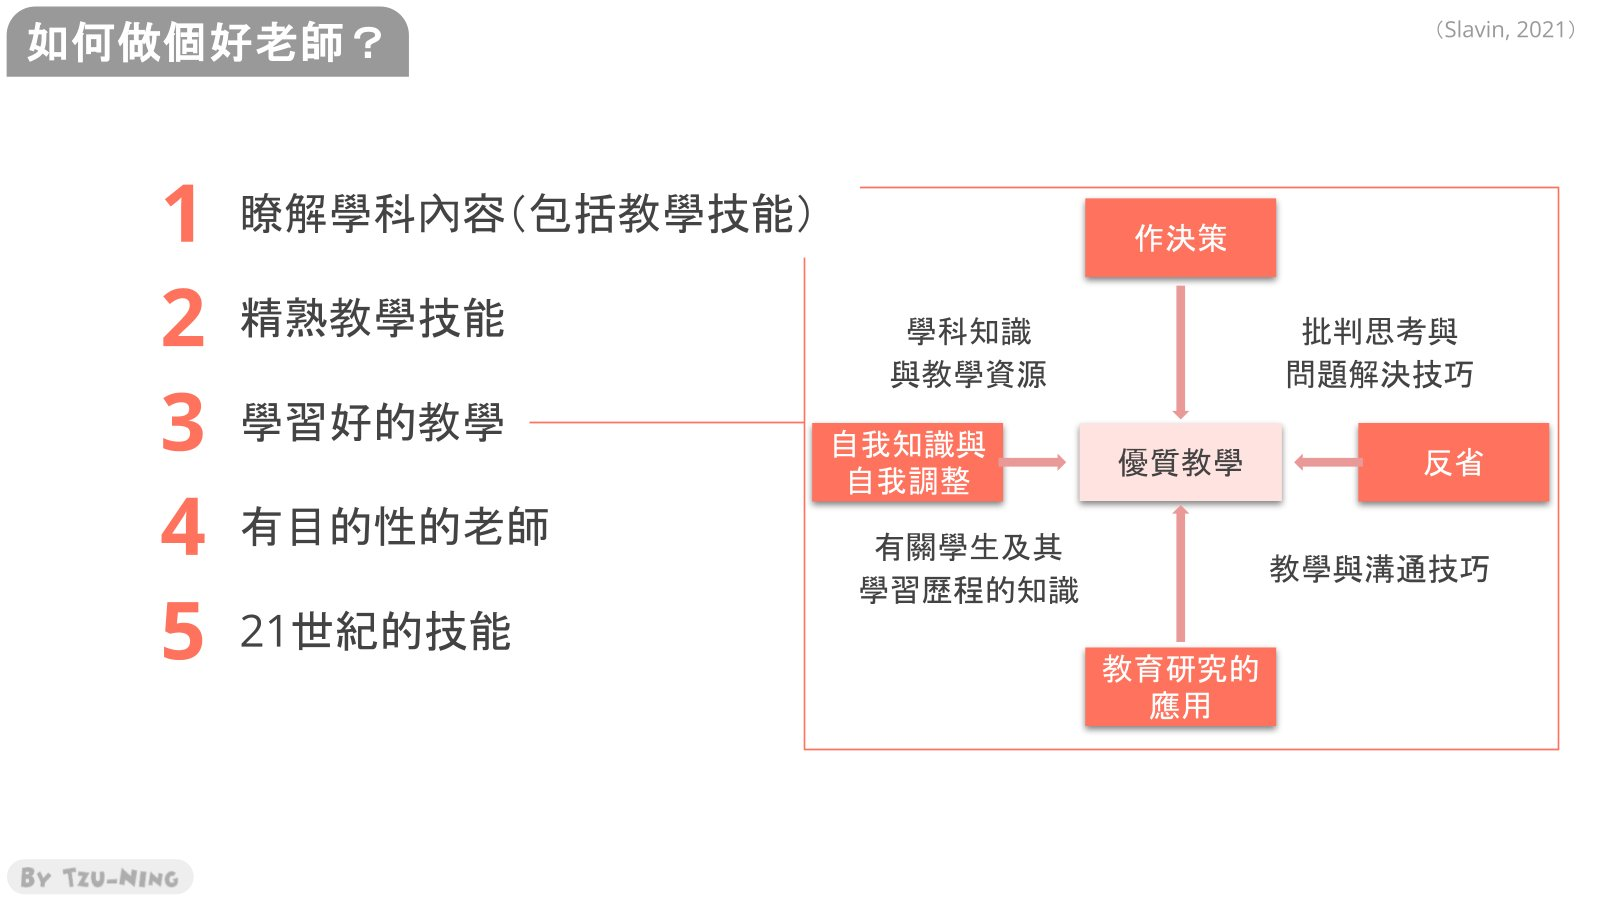
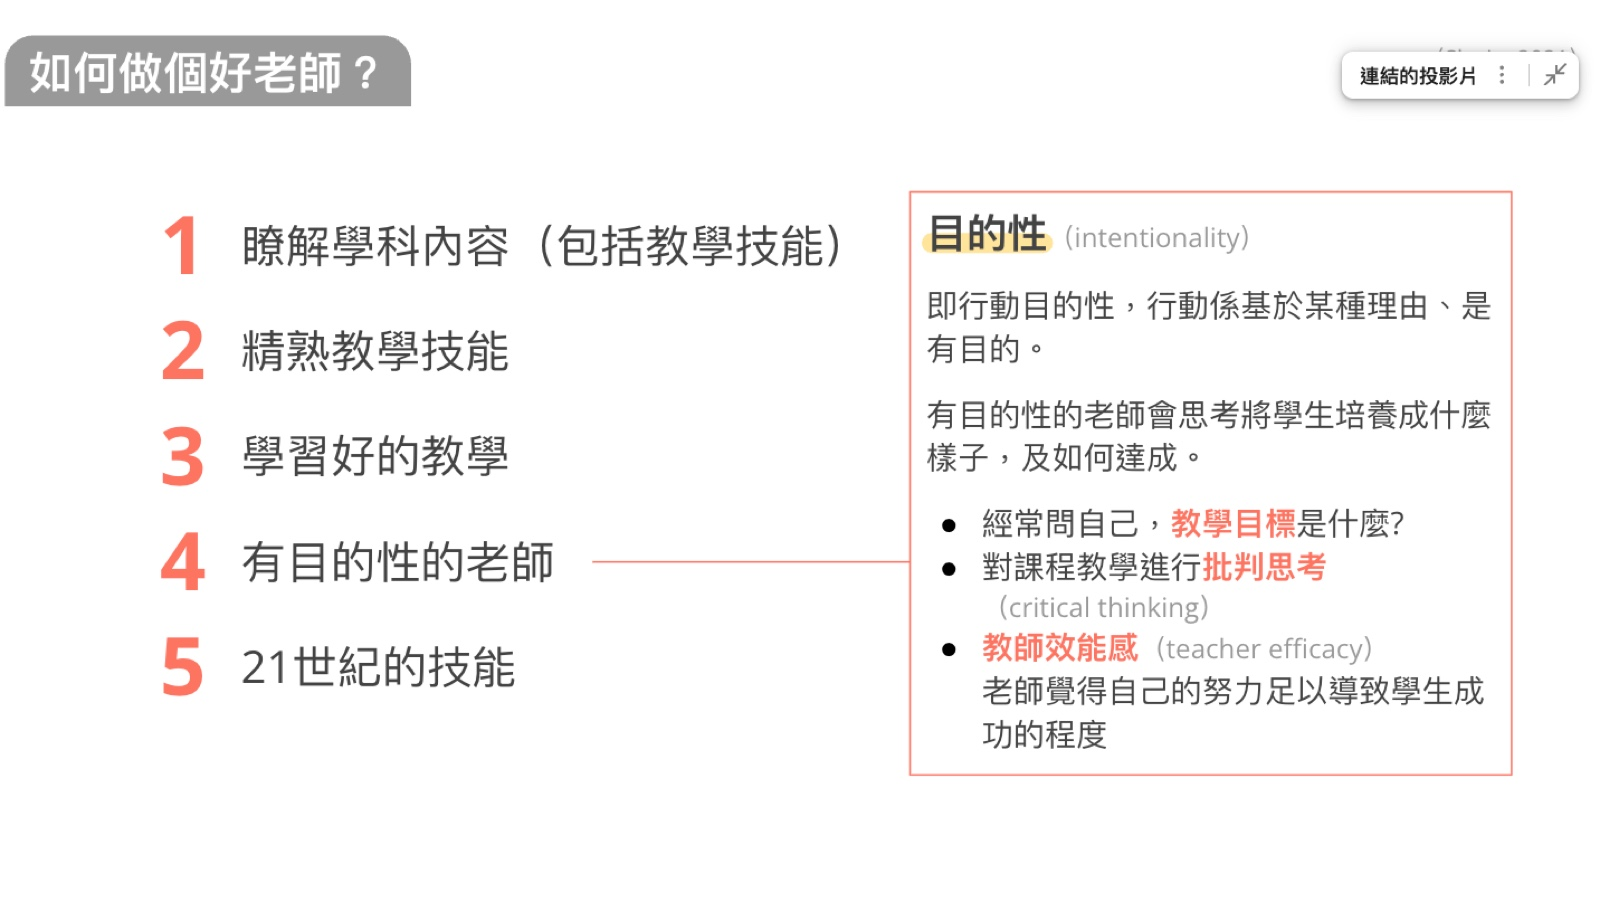
第 1 週：調整優質教學段落與投影片

diff --git a/review/week01/index.html b/review/week01/index.html
@@ -11,17 +11,17 @@
 </head>
 <body id="top">
 <div class="layout">
-<nav class="side" aria-label="課程週次"><div class="side-box"><div class="side-head"><span class="side-title">各週大綱</span><button class="side-toggle" type="button" aria-expanded="true" aria-controls="side-list">收合</button></div><div class="side-list" id="side-list"><details class="wk on" open><summary>第 1 週｜教育心理學概論</summary><ol class="secs"><li><a class="sec" href="#s1"><span class="n">1</span><span class="t">教育心理學的範疇</span></a></li><li><a class="sec" href="#s2"><span class="n">2</span><span class="t">教育心理學的發展：六個時期</span></a><ul class="subs"><li><a href="#s2-1">哲學思辨的孕育期（古希臘至 19 世紀末）</a></li><li><a href="#s2-2">科學心理學誕生與探索（1880 年代至 1920 年代）</a></li><li><a href="#s2-3">行為主義時期（1920 年代至 1950 年代）</a></li><li><a href="#s2-4">認知革命與人本主義（1950 年代至 1980 年代）</a></li><li><a href="#s2-5">建構主義與社會文化觀點（1980 年代至 1990 年代）</a></li><li><a href="#s2-6">當代多元與科技取向（1990 年代至今）</a></li></ul></li><li><a class="sec" href="#s3"><span class="n">3</span><span class="t">優質教學的三項要素</span></a><ul class="subs"><li><a href="#s3-1">學科知識與教學技能兼備</a></li><li><a href="#s3-2">有目的性的教學</a></li><li><a href="#s3-3">教師效能感</a></li></ul></li><li><a class="sec" href="#s4"><span class="n">4</span><span class="t">教學只是常識嗎？三個常見迷思</span></a><ul class="subs"><li><a href="#s4-1">迷思一：依學生偏好的學習風格教學，學習效果最好</a></li><li><a href="#s4-2">迷思二：資優學生不應跳級或提早進入大學</a></li><li><a href="#s4-3">迷思三：給學生更多選擇，就能促進學習</a></li></ul></li><li><a class="sec" href="#s5"><span class="n">5</span><span class="t">實驗法：實驗室實驗與隨機化實地實驗</span></a></li><li><a class="sec" href="#s6"><span class="n">6</span><span class="t">個案實驗：ABAB 設計</span></a></li><li><a class="sec" href="#s7"><span class="n">7</span><span class="t">實驗研究與準實驗研究</span></a></li><li><a class="sec" href="#s8"><span class="n">8</span><span class="t">相關法：相關不等於因果</span></a></li><li><a class="sec" href="#s9"><span class="n">9</span><span class="t">本週重點整理</span></a></li></ol></details><div class="wk off"><span>第 2 週</span><span class="soon">尚未上線</span></div><div class="wk off"><span>第 3 週</span><span class="soon">尚未上線</span></div></div></div></nav>
+<nav class="side" aria-label="課程週次"><div class="side-box"><div class="side-head"><span class="side-title">各週大綱</span><button class="side-toggle" type="button" aria-expanded="true" aria-controls="side-list">收合</button></div><div class="side-list" id="side-list"><details class="wk on" open><summary>第 1 週｜教育心理學概論</summary><ol class="secs"><li><a class="sec" href="#s1"><span class="n">1</span><span class="t">教育心理學的範疇</span></a></li><li><a class="sec" href="#s2"><span class="n">2</span><span class="t">教育心理學的發展：六個時期</span></a><ul class="subs"><li><a href="#s2-1">哲學思辨的孕育期（古希臘至 19 世紀末）</a></li><li><a href="#s2-2">科學心理學誕生與探索（1880 年代至 1920 年代）</a></li><li><a href="#s2-3">行為主義時期（1920 年代至 1950 年代）</a></li><li><a href="#s2-4">認知革命與人本主義（1950 年代至 1980 年代）</a></li><li><a href="#s2-5">建構主義與社會文化觀點（1980 年代至 1990 年代）</a></li><li><a href="#s2-6">當代多元與科技取向（1990 年代至今）</a></li></ul></li><li><a class="sec" href="#s3"><span class="n">3</span><span class="t">優質教學的幾個概念</span></a><ul class="subs"><li><a href="#s3-1">學科知識與教學技能兼備</a></li><li><a href="#s3-2">有目的性的教學</a></li><li><a href="#s3-3">教師效能感</a></li></ul></li><li><a class="sec" href="#s4"><span class="n">4</span><span class="t">教學只是常識嗎？三個常見迷思</span></a><ul class="subs"><li><a href="#s4-1">迷思一：依學生偏好的學習風格教學，學習效果最好</a></li><li><a href="#s4-2">迷思二：資優學生不應跳級或提早進入大學</a></li><li><a href="#s4-3">迷思三：給學生更多選擇，就能促進學習</a></li></ul></li><li><a class="sec" href="#s5"><span class="n">5</span><span class="t">實驗法：實驗室實驗與隨機化實地實驗</span></a></li><li><a class="sec" href="#s6"><span class="n">6</span><span class="t">個案實驗：ABAB 設計</span></a></li><li><a class="sec" href="#s7"><span class="n">7</span><span class="t">實驗研究與準實驗研究</span></a></li><li><a class="sec" href="#s8"><span class="n">8</span><span class="t">相關法：相關不等於因果</span></a></li><li><a class="sec" href="#s9"><span class="n">9</span><span class="t">本週重點整理</span></a></li></ol></details><div class="wk off"><span>第 2 週</span><span class="soon">尚未上線</span></div><div class="wk off"><span>第 3 週</span><span class="soon">尚未上線</span></div></div></div></nav>
 <article class="post">
   <header class="post-head">
     <p class="tag">第 1 週｜教育心理學概論</p>
     <h1>教育心理學是什麼？從學科發展到研究方法</h1>
-    <p class="dek">本週介紹教育心理學的範疇與六個發展時期，討論優質教學的三項要素，並以三個常見的教學迷思說明教育心理學研究的必要性，最後介紹實驗法、個案實驗與相關法。</p>
+    <p class="dek">本週介紹教育心理學的範疇與六個發展時期，討論優質教學的幾個概念，並以三個常見的教學迷思說明教育心理學研究的必要性，最後介紹實驗法、個案實驗與相關法。</p>
     <p class="byline"><span>依<span class="name">王孜𡩋</span>老師於「115學士後教育學分班」2026/10/08 課堂內容與投影片整理</span><span>閱讀時間約 15 分鐘</span></p>
   </header>
   <div class="body">
     <p>「教育心理學概論」是本課程的第一個主題，涵蓋四個部分：教育心理學的定義與範疇、學科的發展歷程、優質教學的要素，以及教育心理學研究。其中研究方法與後續各單元的理解密切相關，是本週的重點。</p>
-    <nav class="toc" aria-label="本文目錄"><p>本文目錄</p><ol><li><a href="#s1">教育心理學的範疇</a></li><li><a href="#s2">教育心理學的發展：六個時期</a></li><li><a href="#s3">優質教學的三項要素</a></li><li><a href="#s4">教學只是常識嗎？三個常見迷思</a></li><li><a href="#s5">實驗法：實驗室實驗與隨機化實地實驗</a></li><li><a href="#s6">個案實驗：ABAB 設計</a></li><li><a href="#s7">實驗研究與準實驗研究</a></li><li><a href="#s8">相關法：相關不等於因果</a></li><li><a href="#s9">本週重點整理</a></li></ol></nav>
+    <nav class="toc" aria-label="本文目錄"><p>本文目錄</p><ol><li><a href="#s1">教育心理學的範疇</a></li><li><a href="#s2">教育心理學的發展：六個時期</a></li><li><a href="#s3">優質教學的幾個概念</a></li><li><a href="#s4">教學只是常識嗎？三個常見迷思</a></li><li><a href="#s5">實驗法：實驗室實驗與隨機化實地實驗</a></li><li><a href="#s6">個案實驗：ABAB 設計</a></li><li><a href="#s7">實驗研究與準實驗研究</a></li><li><a href="#s8">相關法：相關不等於因果</a></li><li><a href="#s9">本週重點整理</a></li></ol></nav>
     <h2 id="s1">教育心理學的範疇</h2>
     <p>班級經營、教學方法、學習動機、師生互動與個別差異，都屬於教育心理學關注的議題。整體而言，教育心理學可分為五大範疇：</p>
     <figure class="slide"><img src="slides/scope.jpg" alt="投影片：教育心理學的五大範疇" width="1600" height="900" loading="lazy"><figcaption>教育心理學的五大範疇</figcaption></figure>
@@ -54,13 +54,13 @@
     <p>代表人物包括提出多元智能理論的加德納、推廣情緒智力的高曼、研究自我調整學習的齊默曼，以及教育神經科學與 AI 學習分析領域的學者。此時期的特色是學習的多元化，重視情緒、動機與自我調控，並整合科技與腦科學，在全球化與數位化的背景下關注個別差異與多元文化。</p>
     <figure class="slide"><img src="slides/contemp.jpg" alt="投影片：當代多元與科技取向" width="1600" height="900" loading="lazy"><figcaption>當代多元與科技取向</figcaption></figure>
     <p>綜觀六個時期：科學心理學建立後，行為主義著重結果與效率；認知革命與人本主義進一步探討內在心智；建構主義與社會文化觀點將學習放回社會脈絡；當代則走向多元並整合科技。</p>
-    <h2 id="s3">優質教學的三項要素</h2>
-    <p>關於優質教學，本週聚焦於以下三項要素。</p>
+    <h2 id="s3">優質教學的幾個概念</h2>
+    <p>關於優質教學，本週聚焦於以下三點。</p>
     <figure class="slide"><img src="slides/teacher.jpg" alt="投影片：如何做個好老師（Slavin, 2021）" width="1600" height="900" loading="lazy"><figcaption>如何做個好老師（Slavin, 2021）</figcaption></figure>
     <h3 id="s3-1">學科知識與教學技能兼備</h3>
     <p>具備豐富的學科知識不等於能有效教學，教學表達流暢也不代表內容充實。<strong>瞭解學科內容</strong>與<strong>精熟教學技能</strong>兩者兼備，才能構成優質的教學。</p>
     <h3 id="s3-2">有目的性的教學</h3>
-    <p>有目的性（intentionality）是指教師的教學行動具有明確方向與理由。以實習教學為例：若以學生參與熱絡、課堂氣氛愉快作為教學成效的指標，容易忽略更根本的問題，也就是學生究竟學到了什麼，以及是否達成教學目標。<span class="mark">課堂熱絡不等於學生學會</span>，設計教學活動前，應先確立學習目標。</p>
+    <p>有目的性（intentionality）是指教師的教學行動具有明確方向與理由。以老師自身的實習教學為例：若以學生參與熱絡、課堂氣氛愉快作為教學成效的指標，容易忽略更根本的問題，也就是學生究竟學到了什麼，以及是否達成教學目標。<span class="mark">課堂熱絡不等於學生學會</span>，設計教學活動前，應先確立學習目標。</p>
     <h3 id="s3-3">教師效能感</h3>
     <p>教師效能感（teacher efficacy）是指教師相信自身努力能促成學生學習與成功的程度，是「自我效能感」在教師角色上的應用。教師效能感偏低時，教師容易產生「做什麼都沒有用」的無力感，這不僅影響學生學習，也影響教師的心理健康。</p>
     <h2 id="s4">教學只是常識嗎？三個常見迷思</h2>
@@ -103,7 +103,7 @@
     <figure class="slide"><img src="slides/five.jpg" alt="投影片：A 和 B 有相關：邏輯上的五種可能" width="1600" height="900" loading="lazy"><figcaption>A 和 B 有相關：邏輯上的五種可能</figcaption></figure>
     <p>其餘兩種研究方法（描述性研究與行動研究）將於下次課程介紹，並討論不同研究問題適合採用的研究方法。</p>
     <h2 id="s9">本週重點整理</h2>
-    <ul><li>教育心理學涵蓋發展理論、學習理論、教學理論／教學法、學習多樣性與教學實踐五大範疇。</li><li>教育心理學的發展分為六個時期，每一時期都在回應前一時期的不足。</li><li><span class="mark">桑代克被稱為「教育心理學之父」。</span></li><li>優質教學的三項要素：學科知識與教學技能兼備、有目的性的教學、教師效能感。</li><li>學習風格、資優生跳級與給予選擇三個例子顯示，常識未必經得起研究檢驗。</li><li>實驗室實驗內在效度高，隨機化實地實驗外在效度佳；ABAB 設計有助於建立因果關係；實驗與準實驗研究的差別在於是否隨機分派。</li><li><span class="mark">相關係數介於 -1 到 1 之間；相關不等於因果。</span></li></ul>
+    <ul><li>教育心理學涵蓋發展理論、學習理論、教學理論／教學法、學習多樣性與教學實踐五大範疇。</li><li>教育心理學的發展分為六個時期，每一時期都在回應前一時期的不足。</li><li><span class="mark">桑代克被稱為「教育心理學之父」。</span></li><li>優質教學的幾個概念：學科知識與教學技能兼備、有目的性的教學、教師效能感。</li><li>學習風格、資優生跳級與給予選擇三個例子顯示，常識未必經得起研究檢驗。</li><li>實驗室實驗內在效度高，隨機化實地實驗外在效度佳；ABAB 設計有助於建立因果關係；實驗與準實驗研究的差別在於是否隨機分派。</li><li><span class="mark">相關係數介於 -1 到 1 之間；相關不等於因果。</span></li></ul>
     <h2 class="plain">資料來源</h2>
     <ul class="sources"><li><span class="name">王孜𡩋</span>，〈教育心理學概論〉課堂講授，2026 年 10 月 8 日。</li><li><span class="name">王孜𡩋</span>，〈教育心理學概論〉課堂投影片，國立臺灣師範大學教育心理與輔導學系。文中圖片皆取自此投影片。</li><li>文中引用的研究文獻依投影片標註：Barrish, Saunders, &amp; Wolf (1969)；Kicken et al. (2009)；Kretschmann et al. (2014)；Macdonald et al. (2017)；Park et al. (2013)；Slavin (2021)；Woolfolk (2025)。</li></ul>
   </div>

diff --git a/review/index.html b/review/index.html
@@ -16,7 +16,7 @@
     <h1>課後複習</h1>
     <p class="intro">依<span class="name">王孜𡩋</span>老師每週課堂內容與投影片整理，適合缺課或想複習的同學閱讀。點選下方的週次進入；進入後可用「各週大綱」跳到任一節。</p>
   </header>
-  <div class="wlist"><a class="wcard" href="week01/"><div class="wbody"><div class="wmeta"><span class="wnum">第 1 週</span><span class="wdate">10/8 上課</span></div><h2>教育心理學概論</h2><p class="wtitle">教育心理學是什麼？從學科發展到研究方法</p><ol class="wsecs" style="--rows:5"><li>教育心理學的範疇</li><li>教育心理學的發展：六個時期</li><li>優質教學的三項要素</li><li>教學只是常識嗎？三個常見迷思</li><li>實驗法：實驗室實驗與隨機化實地實驗</li><li>個案實驗：ABAB 設計</li><li>實驗研究與準實驗研究</li><li>相關法：相關不等於因果</li><li>本週重點整理</li></ol><span class="wgo">開始閱讀 →</span></div></a></div>
+  <div class="wlist"><a class="wcard" href="week01/"><div class="wbody"><div class="wmeta"><span class="wnum">第 1 週</span><span class="wdate">10/8 上課</span></div><h2>教育心理學概論</h2><p class="wtitle">教育心理學是什麼？從學科發展到研究方法</p><ol class="wsecs" style="--rows:5"><li>教育心理學的範疇</li><li>教育心理學的發展：六個時期</li><li>優質教學的幾個概念</li><li>教學只是常識嗎？三個常見迷思</li><li>實驗法：實驗室實驗與隨機化實地實驗</li><li>個案實驗：ABAB 設計</li><li>實驗研究與準實驗研究</li><li>相關法：相關不等於因果</li><li>本週重點整理</li></ol><span class="wgo">開始閱讀 →</span></div></a></div>
   <div class="wsoon-row"><div class="wcard off"><span class="wnum">第 2 週</span><span class="wsoon">尚未上線</span></div><div class="wcard off"><span class="wnum">第 3 週</span><span class="wsoon">尚未上線</span></div></div>
 </main>
 </body>

diff --git a/review-src/week01/content.py b/review-src/week01/content.py
@@ -24,11 +24,11 @@ SLIDES = {  # 皆為未隱藏投影片
 BLOCKS = [
  ("label", "第 1 週｜教育心理學概論"),
  ("title", "教育心理學是什麼？從學科發展到研究方法"),
- ("dek", "本週介紹教育心理學的範疇與六個發展時期，討論優質教學的三項要素，並以三個常見的教學迷思說明教育心理學研究的必要性，最後介紹實驗法、個案實驗與相關法。"),
+ ("dek", "本週介紹教育心理學的範疇與六個發展時期，討論優質教學的幾個概念，並以三個常見的教學迷思說明教育心理學研究的必要性，最後介紹實驗法、個案實驗與相關法。"),
  ("byline", "依王孜𡩋老師於「115學士後教育學分班」2026/10/08 課堂內容與投影片整理｜閱讀時間約 15 分鐘"),
  ("p", "「教育心理學概論」是本課程的第一個主題，涵蓋四個部分：教育心理學的定義與範疇、學科的發展歷程、優質教學的要素，以及教育心理學研究。其中研究方法與後續各單元的理解密切相關，是本週的重點。"),
  ("toc_label", "本文目錄"),
- ("ol", ["教育心理學的範疇", "教育心理學的發展：六個時期", "優質教學的三項要素", "教學只是常識嗎？三個常見迷思", "實驗法：實驗室實驗與隨機化實地實驗", "個案實驗：ABAB 設計", "實驗研究與準實驗研究", "相關法：相關不等於因果", "本週重點整理"]),
+ ("ol", ["教育心理學的範疇", "教育心理學的發展：六個時期", "優質教學的幾個概念", "教學只是常識嗎？三個常見迷思", "實驗法：實驗室實驗與隨機化實地實驗", "個案實驗：ABAB 設計", "實驗研究與準實驗研究", "相關法：相關不等於因果", "本週重點整理"]),
 
  ("h2", "教育心理學的範疇"),
  ("p", "班級經營、教學方法、學習動機、師生互動與個別差異，都屬於教育心理學關注的議題。整體而言，教育心理學可分為五大範疇："),
@@ -71,13 +71,13 @@ BLOCKS = [
  ("img", "contemp", "當代多元與科技取向"),
  ("p", "綜觀六個時期：科學心理學建立後，行為主義著重結果與效率；認知革命與人本主義進一步探討內在心智；建構主義與社會文化觀點將學習放回社會脈絡；當代則走向多元並整合科技。"),
 
- ("h2", "優質教學的三項要素"),
- ("p", "關於優質教學，本週聚焦於以下三項要素。"),
+ ("h2", "優質教學的幾個概念"),
+ ("p", "關於優質教學，本週聚焦於以下三點。"),
  ("img", "teacher", "如何做個好老師（Slavin, 2021）"),
  ("h3", "學科知識與教學技能兼備"),
  ("p", "具備豐富的學科知識不等於能有效教學，教學表達流暢也不代表內容充實。**瞭解學科內容**與**精熟教學技能**兩者兼備，才能構成優質的教學。"),
  ("h3", "有目的性的教學"),
- ("p", "有目的性（intentionality）是指教師的教學行動具有明確方向與理由。以實習教學為例：若以學生參與熱絡、課堂氣氛愉快作為教學成效的指標，容易忽略更根本的問題，也就是學生究竟學到了什麼，以及是否達成教學目標。==課堂熱絡不等於學生學會==，設計教學活動前，應先確立學習目標。"),
+ ("p", "有目的性（intentionality）是指教師的教學行動具有明確方向與理由。以老師自身的實習教學為例：若以學生參與熱絡、課堂氣氛愉快作為教學成效的指標，容易忽略更根本的問題，也就是學生究竟學到了什麼，以及是否達成教學目標。==課堂熱絡不等於學生學會==，設計教學活動前，應先確立學習目標。"),
  ("h3", "教師效能感"),
  ("p", "教師效能感（teacher efficacy）是指教師相信自身努力能促成學生學習與成功的程度，是「自我效能感」在教師角色上的應用。教師效能感偏低時，教師容易產生「做什麼都沒有用」的無力感，這不僅影響學生學習，也影響教師的心理健康。"),
 
@@ -138,7 +138,7 @@ BLOCKS = [
  ("ul", ["教育心理學涵蓋發展理論、學習理論、教學理論／教學法、學習多樣性與教學實踐五大範疇。",
          "教育心理學的發展分為六個時期，每一時期都在回應前一時期的不足。",
          "==桑代克被稱為「教育心理學之父」。==",
-         "優質教學的三項要素：學科知識與教學技能兼備、有目的性的教學、教師效能感。",
+         "優質教學的幾個概念：學科知識與教學技能兼備、有目的性的教學、教師效能感。",
          "學習風格、資優生跳級與給予選擇三個例子顯示，常識未必經得起研究檢驗。",
          "實驗室實驗內在效度高，隨機化實地實驗外在效度佳；ABAB 設計有助於建立因果關係；實驗與準實驗研究的差別在於是否隨機分派。",
          "==相關係數介於 -1 到 1 之間；相關不等於因果。=="]),
